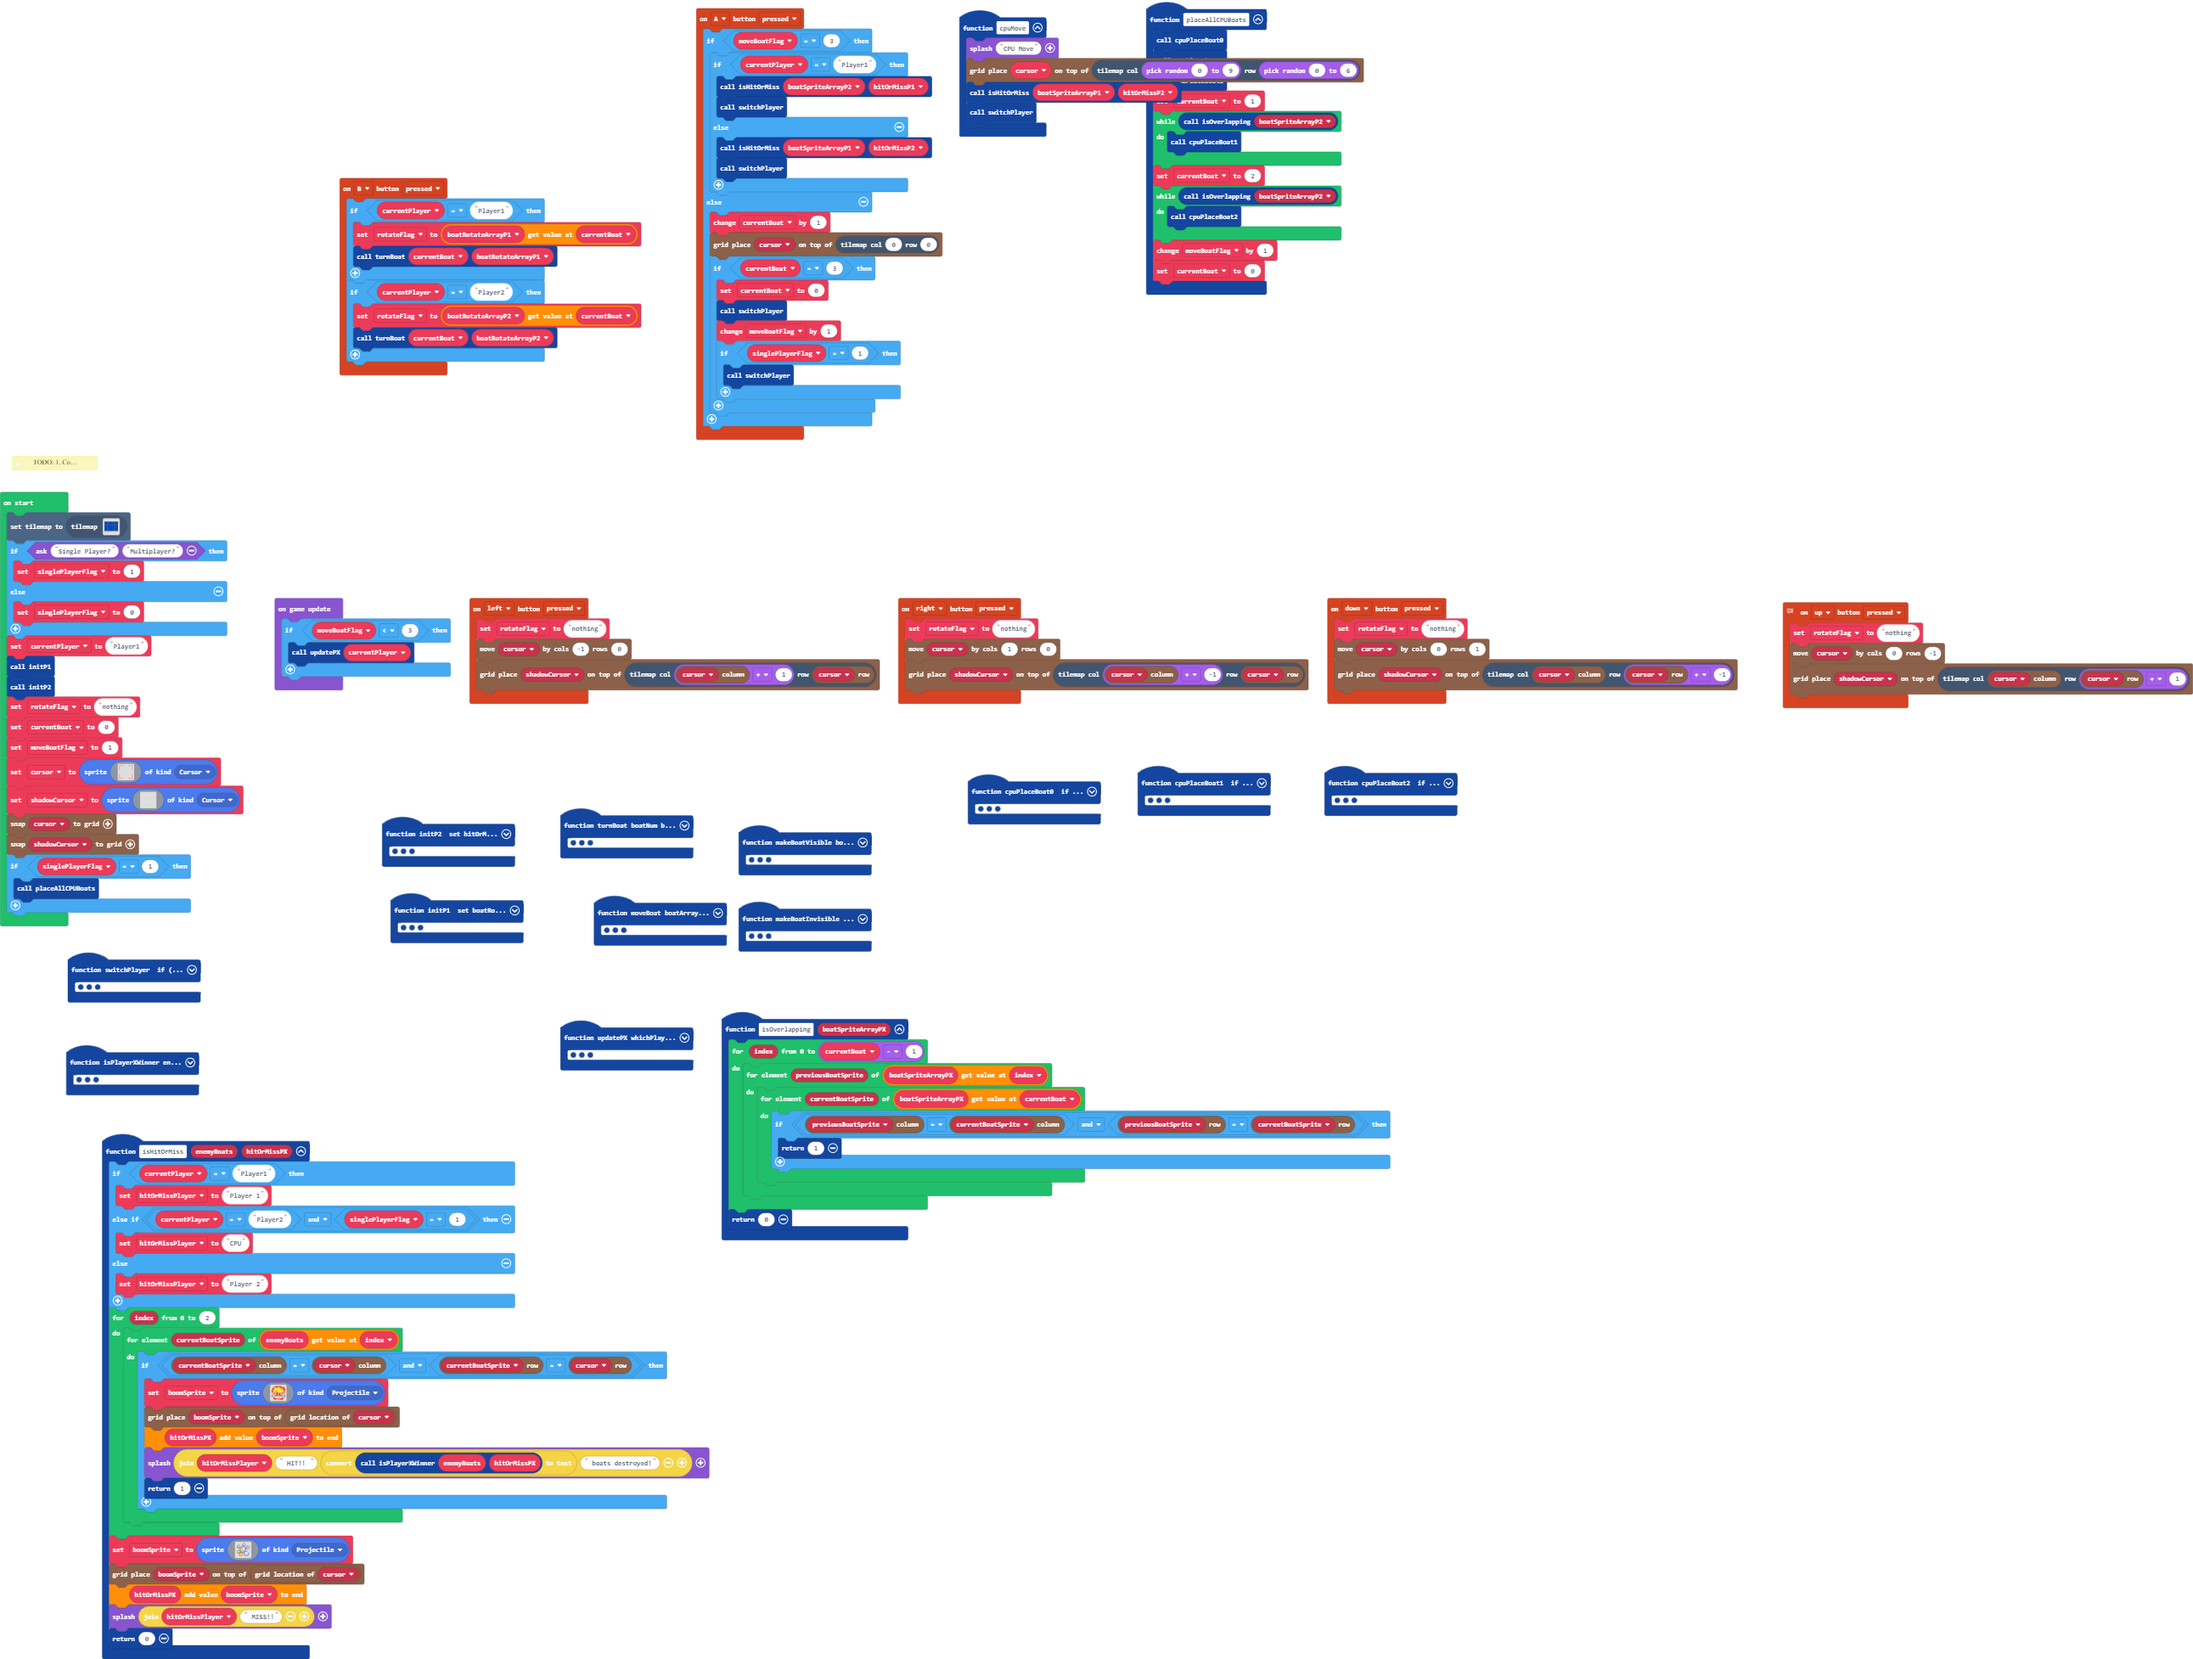
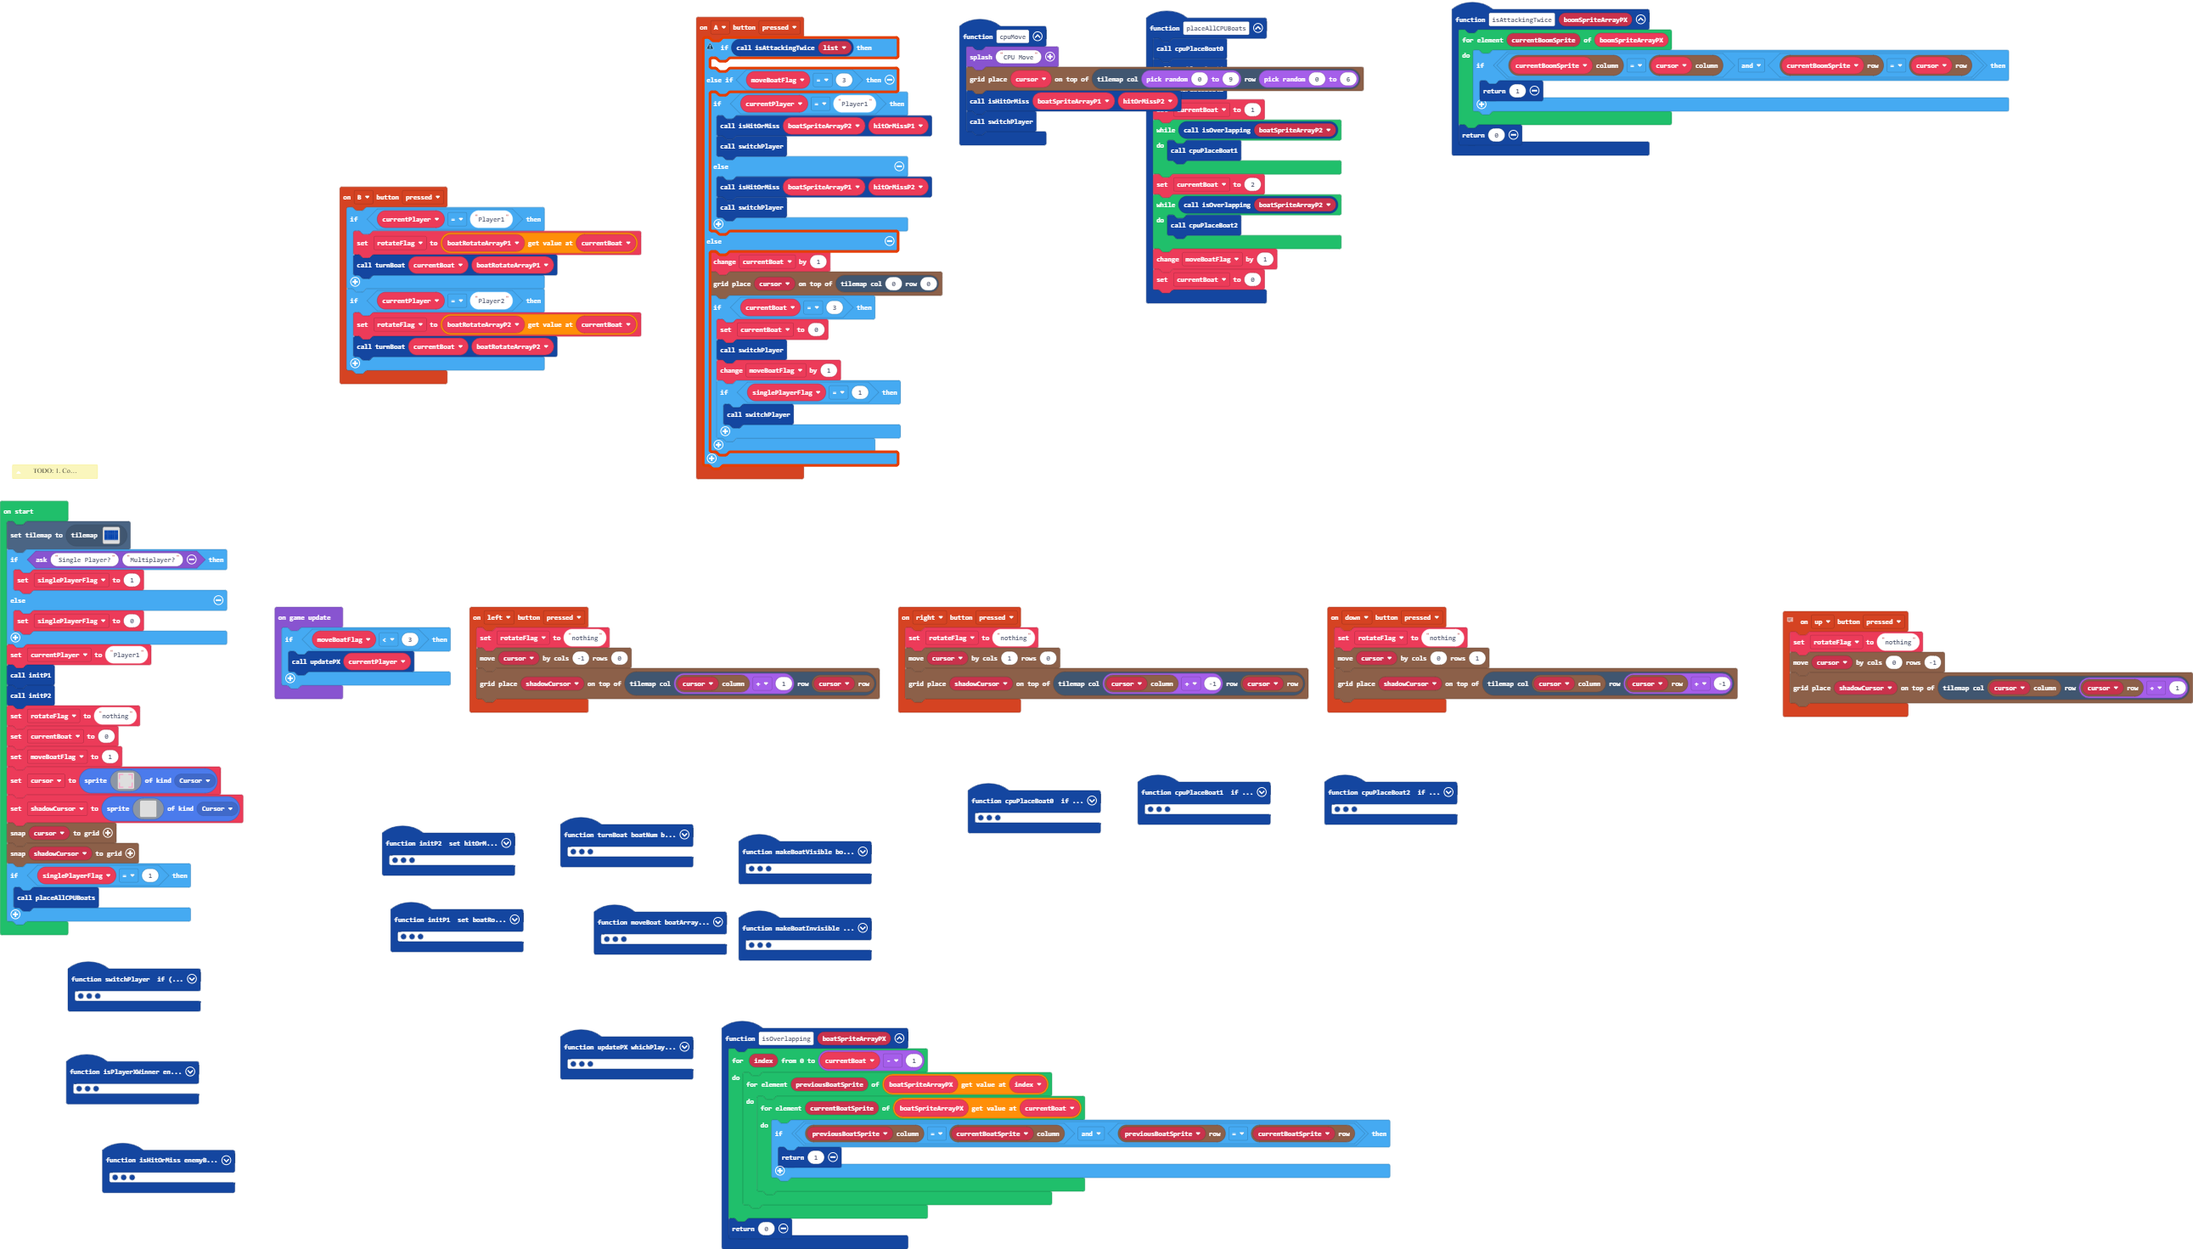
working on is attacking twice

Changed region(s): [[0.0, 0.0, 1.0, 1.0], [0.6504, 0.0, 0.9292, 0.1224]]

diff --git a/main.ts b/main.ts
@@ -90,7 +90,10 @@ function isPlayerXWinner (enemyBoats: Sprite[][], hitOrMissPX: Sprite[]) {
     return killCount
 }
 controller.A.onEvent(ControllerButtonEvent.Pressed, function () {
-    if (moveBoatFlag == 3) {
+    let list: number[] = []
+    if (isAttackingTwice(list)) {
+    	
+    } else if (moveBoatFlag == 3) {
         if (currentPlayer == "Player1") {
             isHitOrMiss(boatSpriteArrayP2, hitOrMissP1)
             switchPlayer()
@@ -441,6 +444,14 @@ function cpuPlaceBoat1 () {
         grid.place(boatSpriteArrayP2[1][1], grid.add(grid.getLocation(cursor), 0, 1))
         grid.place(boatSpriteArrayP2[1][2], grid.add(grid.getLocation(cursor), 0, 2))
     }
+}
+function isAttackingTwice (boomSpriteArrayPX: Sprite[]) {
+    for (let currentBoomSprite of boomSpriteArrayPX) {
+        if (grid.spriteCol(currentBoomSprite) == grid.spriteCol(cursor) && grid.spriteRow(currentBoomSprite) == grid.spriteRow(cursor)) {
+            return 1
+        }
+    }
+    return 0
 }
 function initP2 () {
     hitOrMissP2 = [sprites.create(img`
